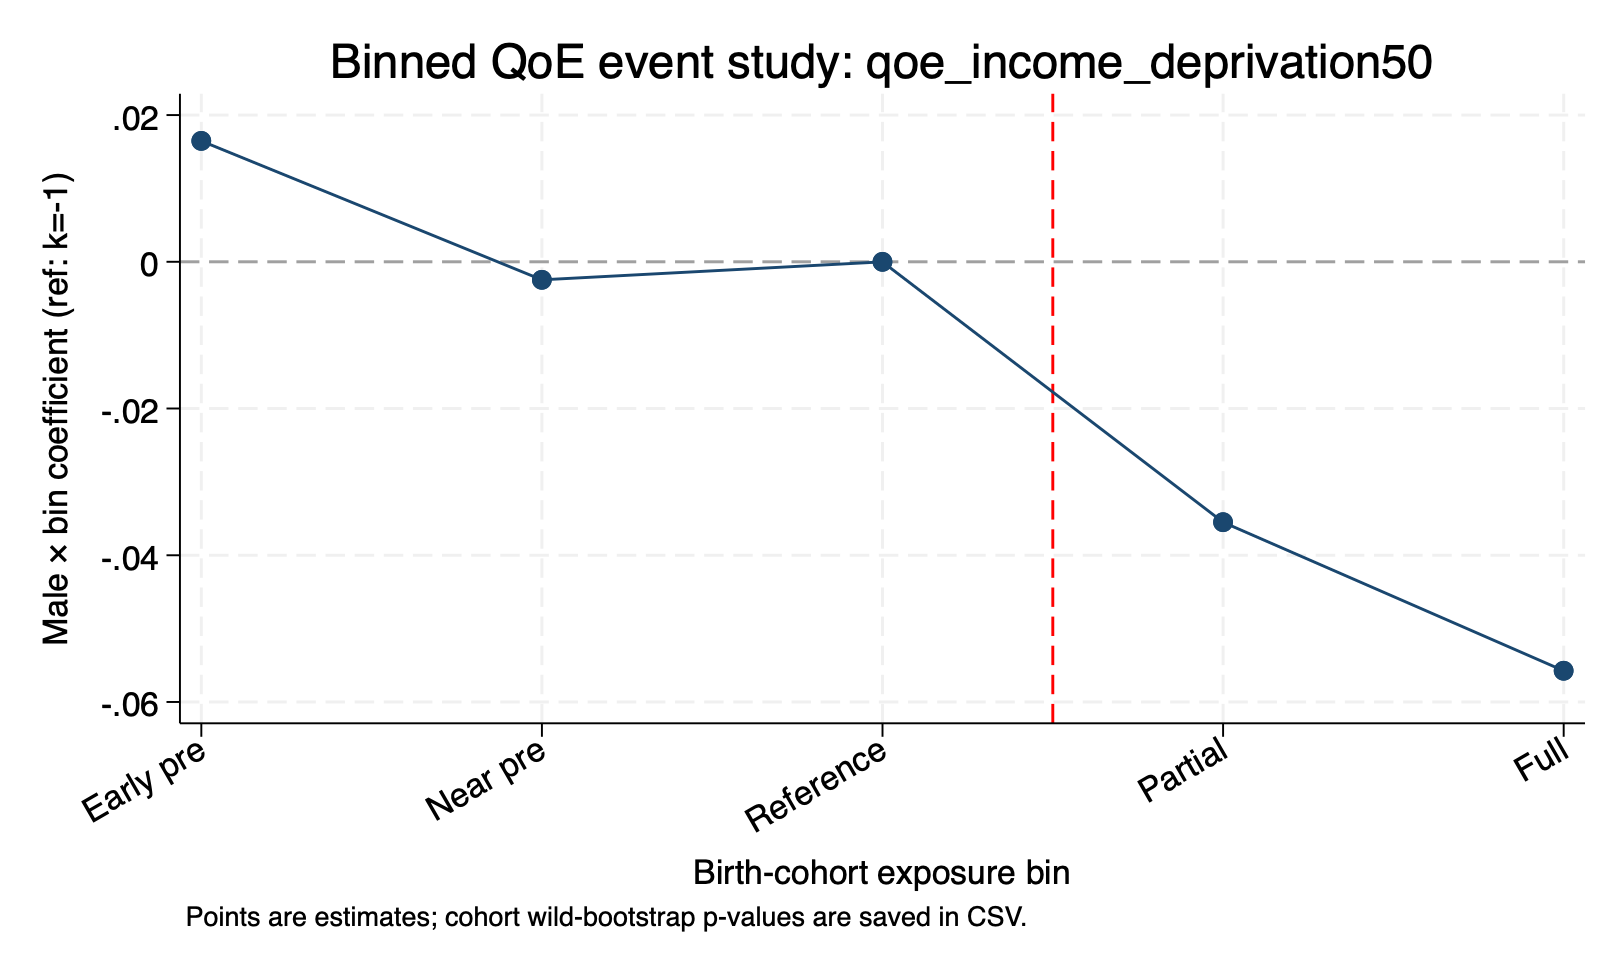
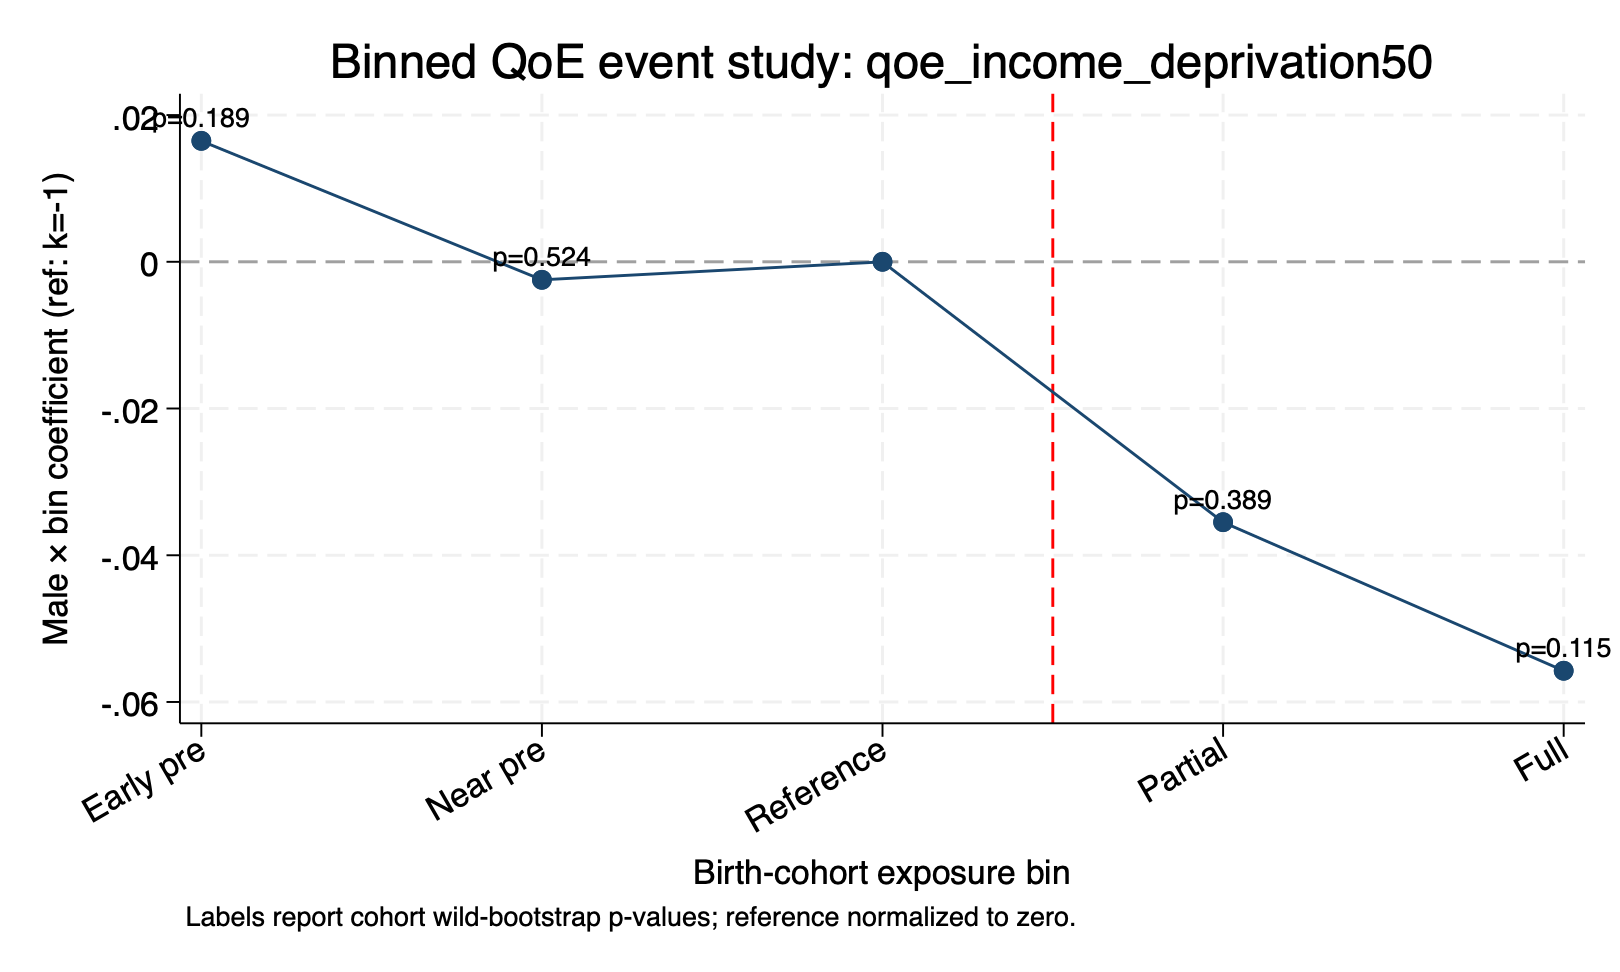
added Latex table and edited qoe binned event study graphs

diff --git a/output/qoe_binned_eventstudy_table.tex b/output/qoe_binned_eventstudy_table.tex
@@ -1,0 +1,16 @@
+            &qoe\_binned\_table&            &            &            \\
+            &   QoE score&      Income&   Stability&  Conditions\\
+\midrule
+Early pre: coefficient&       0.001&       0.016&      -0.005&      -0.008\\
+\quad Clustered SE&       0.007&       0.003&       0.008&       0.014\\
+\quad Wild-bootstrap \(p\)-value&       0.813&       0.189&       0.684&       0.713\\
+Near pre: coefficient&      -0.000&      -0.002&       0.002&      -0.001\\
+\quad Clustered SE&       0.006&       0.008&       0.009&       0.001\\
+\quad Wild-bootstrap \(p\)-value&       0.788&       0.524&       0.726&       0.589\\
+Partial reduction: coefficient&      -0.033&      -0.035&      -0.020&      -0.043\\
+\quad Clustered SE&       0.012&       0.017&       0.010&       0.009\\
+\quad Wild-bootstrap \(p\)-value&       0.252&       0.389&       0.258&       0.141\\
+Full reduction: coefficient&      -0.039&      -0.056&      -0.020&      -0.042\\
+\quad Clustered SE&       0.012&       0.018&       0.018&       0.005\\
+\quad Wild-bootstrap \(p\)-value&       0.070&       0.115&       0.347&       0.029\\
+Joint pre-trend \(p\)-value&       0.906&       0.121&       0.919&       0.857\\
